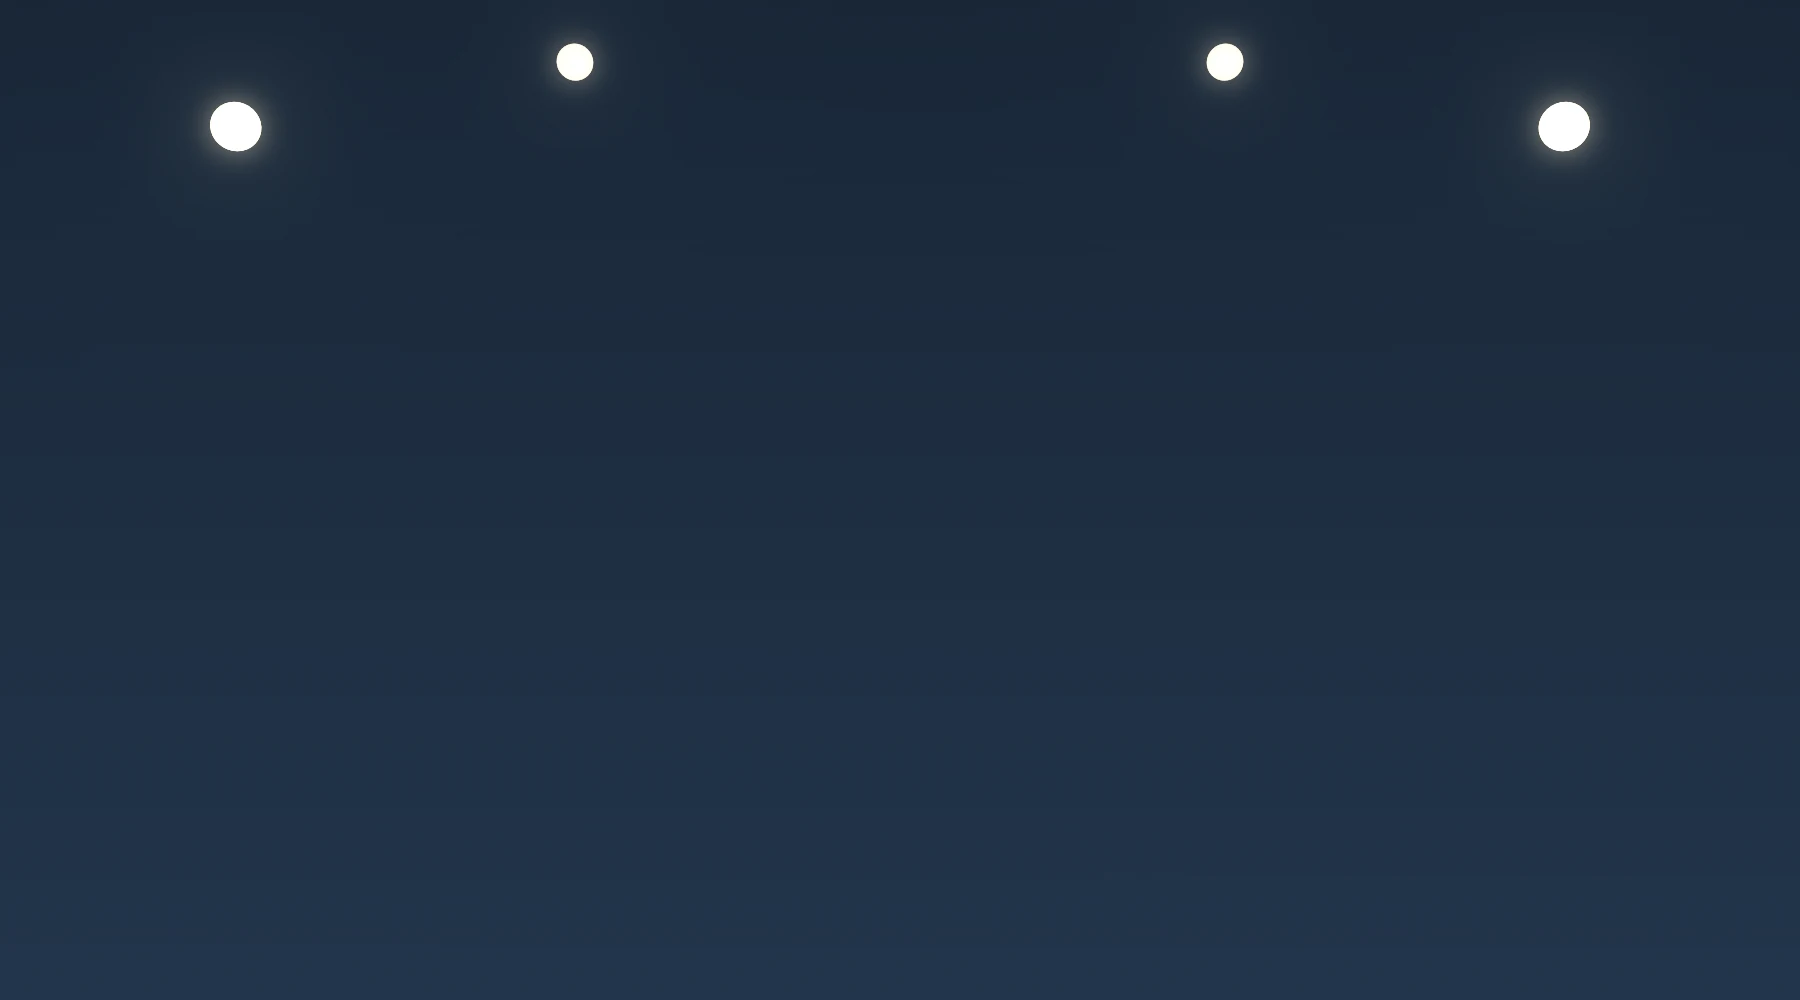
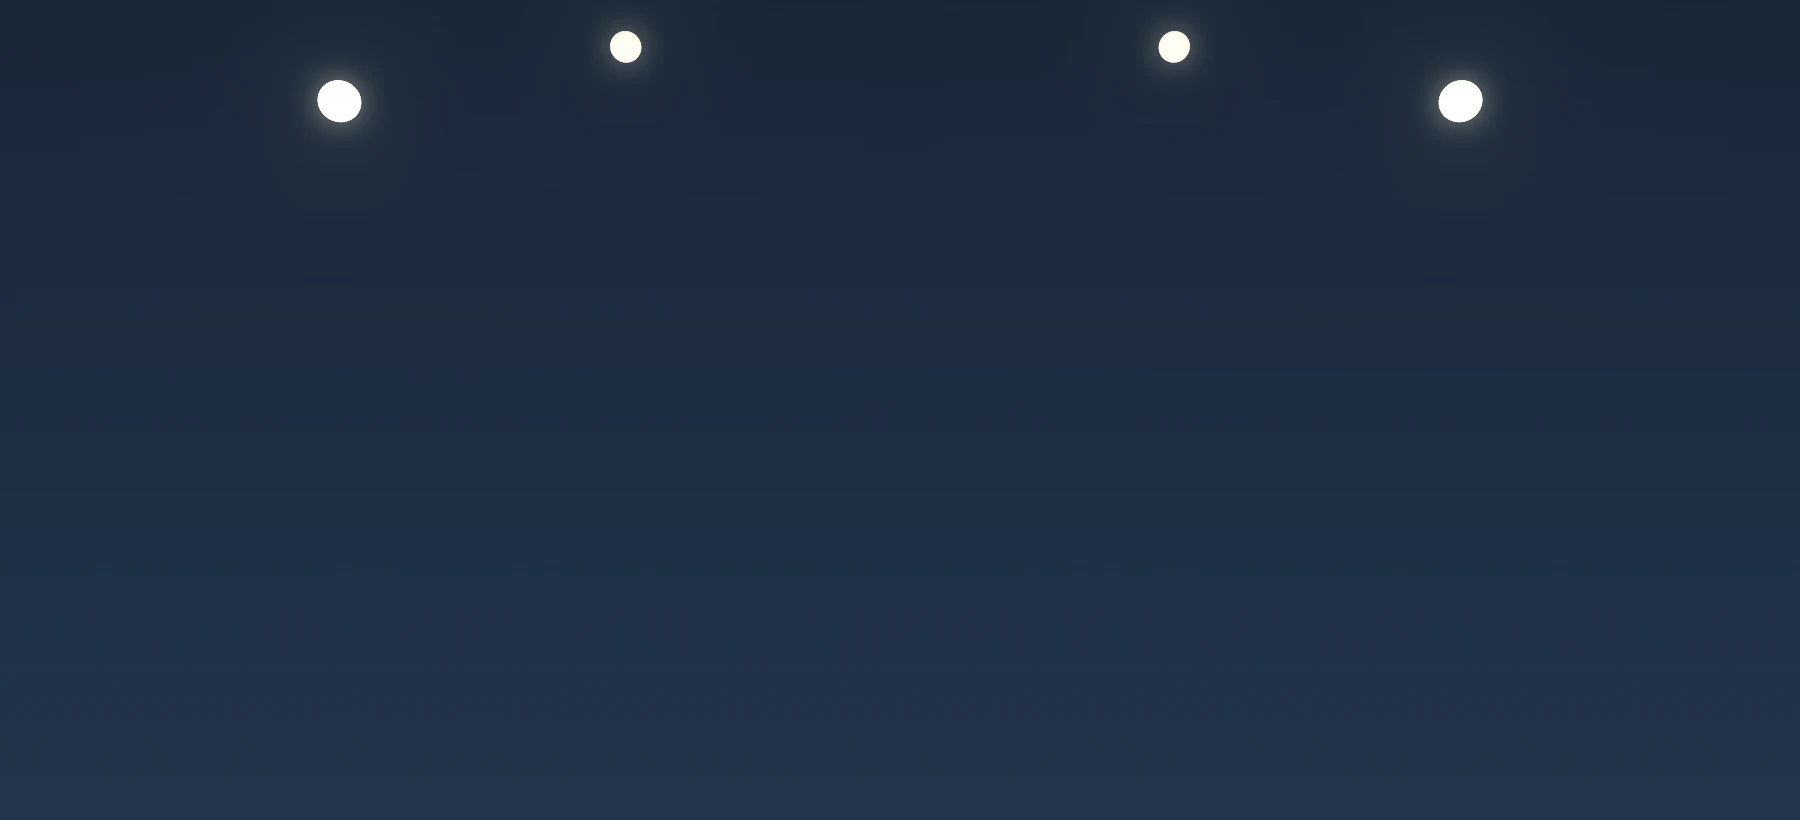
MEMBER: ステージの「寂しさ」を直す（Codex と方向を詰めたうえで）
Codex の診断: 寂しさの正体は空白量ではなく、主役を支える文脈が無いこと。
加えてステージと氏名帯が分離していて、視線が選手→名前→一覧とつながらない。
装飾で埋めるのは禁じ手（粒子・意味のない数字・広い面の金）。

その診断に沿って、足すより先に削る／変える方針で:

1. 紺一色の空を減らす。カメラを低く近くし、フレームも 1000 → 820 に。
2. ピッチの文脈を本物の線で入れる。センターサークルとセンタースポットを
   引き、選手はスポットの上に立つ。飾りではなくサッカーの言語。
3. 金の縁は全周を光らせるのをやめ、照明の当たる側だけ返るようにした
   （発光 2.2 → 0.55）。
4. 氏名帯をステージの外から中へ移し、中継の下部テロップにした。
   生年月日も入れて、視線が選手→名前→一覧と一続きになるようにした。
5. 選手の右側に金のリムライト、足元に落ち影を足して、写真を場に馴染ませた。

文字が芝に乗るのでコントラストを実測したところ 2.66〜3.41 でAAを割った。
テロップに下地（紺の板＋金の罫）を敷いて 6.54〜9.63 に。
狭い画面ではテロップを舞台の下に戻す。舞台は overflow:hidden なので
入れ物を .stage__frame に分けて、切られないようにした。

写真が無い選手のエンブレム表示でも同じ画面が成立することを確認済み。

Claude-Session: https://claude.ai/code/session_01GxWRvPVGrP95bEtFfkLXS7

diff --git a/assets/css/style.css b/assets/css/style.css
@@ -736,7 +736,10 @@ button.btn{color:inherit;font:inherit}
 
 /* ---------- 選手ステージ ---------- */
 .stage{background:var(--navy-deep);padding:clamp(2.4rem,5vw,4rem) clamp(1.4rem,5vw,4rem) 0}
-.stage__scene{position:relative;max-width:900px;margin:0 auto;aspect-ratio:1800/1000;
+/* 舞台とテロップの入れ物。舞台は overflow:hidden なので、
+   テロップは外側に置いて、広い画面だけ上に重ねる */
+.stage__frame{position:relative;max-width:900px;margin:0 auto}
+.stage__scene{position:relative;width:100%;aspect-ratio:1800/820;
   border-radius:10px;overflow:hidden;isolation:isolate}
 .stage__layer{position:absolute;inset:0;width:100%;height:100%;object-fit:cover;
   will-change:transform}
@@ -745,14 +748,15 @@ button.btn{color:inherit;font:inherit}
   background:radial-gradient(60% 46% at 50% 74%,rgba(255,238,200,.16),transparent 70%)}
 /* 立ち位置は楕円の中心（レンダで実測して 78.6%）。
    背丈は実寸より少し大きめにして、主役として見えるようにする */
-.stage__figure{position:absolute;left:50%;bottom:21.4%;height:64%;
+.stage__figure{position:absolute;left:50%;bottom:21.3%;height:66%;
   margin:0;display:flex;flex-direction:column;align-items:center;justify-content:flex-end;
   transform:translate(calc(-50% + var(--px,0px)),0);will-change:transform,opacity}
 .stage__figure::after{content:"";position:absolute;bottom:-4%;left:50%;
   width:150%;height:13%;transform:translateX(-50%);
   background:radial-gradient(50% 50% at 50% 50%,rgba(0,0,0,.55),transparent 72%)}
 .stage__photo{height:100%;width:auto;object-fit:contain;object-position:bottom;
-  filter:drop-shadow(0 0 18px rgba(0,0,0,.55))}
+  filter:drop-shadow(2px -1px 0 rgba(230,193,92,.42))
+         drop-shadow(0 0 22px rgba(var(--navy-deep-rgb),.75))}
 .stage__crest{height:46%;width:auto;opacity:.45}
 /* 胸から上の写真は、切れ目をぼかして光の中から現れるように見せる */
 .stage__figure.is-bust{height:50%}
@@ -772,18 +776,29 @@ button.btn{color:inherit;font:inherit}
   from{opacity:0;transform:translate(calc(-50% + var(--px,0px)),14px) scale(.965)}
   to{opacity:1;transform:translate(calc(-50% + var(--px,0px)),0) scale(1)}}
 .stage__figure.is-in{animation:stage-in .55s var(--ease) both}
-/* 名前の帯 */
-.stage__plate{max-width:900px;margin:1.4rem auto 0;text-align:center;
-  border-top:1px solid var(--line);padding-top:1.3rem}
-.stage__pos{display:flex;justify-content:center;gap:.35rem;margin:0 0 .7rem;min-height:1.2em}
+/* 文字が芝に乗るので、左下だけ落とす */
+.stage__scrim{position:absolute;inset:0;pointer-events:none;
+  background:linear-gradient(0deg,rgba(var(--navy-deep-rgb),.42),transparent 38%)}
+/* 名前は舞台の外に置かず、中継のテロップのように芝の上に重ねる */
+.stage__plate{position:absolute;left:clamp(1.2rem,3.2vw,2.6rem);bottom:clamp(1.1rem,3vw,2.2rem);
+  max-width:46%;text-align:left;
+  padding:1.05rem 1.9rem 1.05rem 1.15rem;border-left:2px solid var(--gold);
+  background:linear-gradient(90deg,rgba(var(--navy-deep-rgb),.93),rgba(var(--navy-deep-rgb),.74) 78%,
+    rgba(var(--navy-deep-rgb),.66));
+  -webkit-backdrop-filter:blur(3px);backdrop-filter:blur(3px)}
+.stage__pos{display:flex;gap:.35rem;margin:0 0 .7rem;min-height:1.2em}
 .stage__pos span{font-family:var(--font-en);font-size:.68rem;font-weight:600;
   letter-spacing:.14em;color:var(--gold);line-height:1;
   border:1px solid rgba(230,193,92,.45);border-radius:3px;padding:.35em .6em}
 .stage__pos b{font-family:var(--font-ja);font-size:.66rem;font-weight:700;letter-spacing:.1em;
   background:var(--gold);color:var(--navy-deep);border-radius:3px;padding:.45em .7em;line-height:1}
-.stage__name{font-size:clamp(1.6rem,4vw,2.4rem);font-weight:900;letter-spacing:.08em;
-  color:#fff;margin:0;line-height:1.3}
-.stage__kana{font-size:.76rem;letter-spacing:.2em;color:var(--grey);margin:.5rem 0 0}
+.stage__name{font-size:clamp(1.5rem,3.4vw,2.3rem);font-weight:900;letter-spacing:.08em;
+  color:#fff;margin:0;line-height:1.25;text-shadow:0 2px 14px rgba(var(--navy-deep-rgb),.8)}
+.stage__kana{font-size:.76rem;letter-spacing:.2em;color:#cbd3e2;margin:.45rem 0 0}
+.stage__dob{font-family:var(--font-en);font-size:.74rem;letter-spacing:.08em;color:#b4bdd0;
+  margin:.9rem 0 0;padding-top:.7rem;border-top:1px solid rgba(230,193,92,.35);
+  display:inline-flex;align-items:baseline;gap:.6rem}
+.stage__dob span{font-size:.62rem;letter-spacing:.18em}
 .stage__hint{text-align:center;font-size:.76rem;color:var(--grey);margin:1.6rem 0 0}
 /* カードは押せる */
 .mcard{cursor:pointer}
@@ -793,6 +808,12 @@ button.btn{color:inherit;font:inherit}
   .stage{padding-top:1.8rem}
   /* 横長のままだと舞台が低すぎる。左右を切って縦を稼ぐ（立ち位置は縦基準なのでずれない） */
   .stage__scene{border-radius:6px;aspect-ratio:5/4}
+  .stage__scrim{background:linear-gradient(0deg,rgba(var(--navy-deep-rgb),.55),transparent 42%)}
+  .stage__plate{position:static;max-width:none;text-align:center;background:none;
+    -webkit-backdrop-filter:none;backdrop-filter:none;border-left:0;
+    margin:1.2rem auto 0;padding:1.1rem 0 0;border-top:1px solid var(--line)}
+  .stage__pos{justify-content:center}
+  .stage__dob{margin-top:.8rem}
   .stage__soon{font-size:.56rem}
   .stage__hint{font-size:.72rem}
 }

diff --git a/member.html b/member.html
@@ -13,7 +13,7 @@
 <link rel="preconnect" href="https://fonts.googleapis.com" />
 <link rel="preconnect" href="https://fonts.gstatic.com" crossorigin />
 <link href="https://fonts.googleapis.com/css2?family=Anton&family=Oswald:wght@400;500;600;700&family=Noto+Sans+JP:wght@400;500;700;900&display=swap" rel="stylesheet" />
-<link rel="stylesheet" href="assets/css/style.css?v=5768a919" />
+<link rel="stylesheet" href="assets/css/style.css?v=dbb45d3d" />
 </head>
 <body>
 
@@ -59,6 +59,7 @@
      選手を選ぶとステージに登場する。写真は assets/img/member/<data-photo>.webp
      まだ無いあいだはエンブレムを出しておく。 -->
 <section class="stage" id="stage" aria-label="選手ステージ">
+  <div class="stage__frame">
   <div class="stage__scene" id="stageScene">
     <img class="stage__layer stage__layer--back" src="assets/img/stage-back.webp" alt="" aria-hidden="true" />
     <img class="stage__layer stage__layer--front" src="assets/img/stage-front.webp" alt="" aria-hidden="true" />
@@ -68,11 +69,14 @@
       <img class="stage__crest" src="assets/img/logo.webp" alt="" aria-hidden="true" />
       <figcaption class="stage__soon">PHOTO COMING SOON</figcaption>
     </figure>
+    <div class="stage__scrim" aria-hidden="true"></div>
   </div>
   <div class="stage__plate" id="stagePlate" role="status" aria-live="polite">
     <p class="stage__pos"></p>
     <p class="stage__name"></p>
     <p class="stage__kana"></p>
+    <p class="stage__dob"></p>
+  </div>
   </div>
   <p class="stage__hint">下のカードを選ぶと、その選手がステージに立ちます。</p>
 </section>
@@ -301,6 +305,6 @@
 <a href="#top" class="totop" id="totop" data-scroll aria-label="ページトップへ">↑</a>
 
 <script src="assets/js/lenis.min.js"></script>
-<script src="assets/js/main.js?v=ef5e01dc"></script>
+<script src="assets/js/main.js?v=18ab4360"></script>
 </body>
 </html>

diff --git a/assets/js/main.js b/assets/js/main.js
@@ -460,6 +460,7 @@
     const elPos = plate.querySelector(".stage__pos");
     const elNm  = plate.querySelector(".stage__name");
     const elKn  = plate.querySelector(".stage__kana");
+    const elDb  = plate.querySelector(".stage__dob");
     const cards = Array.from(grid.querySelectorAll(".mcard"));
     const soft  = !window.matchMedia("(prefers-reduced-motion: reduce)").matches;
 
@@ -472,6 +473,8 @@
         card.dataset.pos.split(" ").map((p) => `<span>${p}</span>`).join("");
       elNm.textContent = card.querySelector(".mcard__name").textContent;
       elKn.textContent = card.querySelector(".mcard__kana").textContent;
+      if (elDb) elDb.innerHTML =
+        '<span>BORN</span>' + card.querySelector(".mcard__dob").lastChild.textContent.trim();
 
       // 写真がまだ無い選手はエンブレムのまま
       fig.classList.add("is-empty");

diff --git a/sponsor.html b/sponsor.html
@@ -13,7 +13,7 @@
 <link rel="preconnect" href="https://fonts.googleapis.com" />
 <link rel="preconnect" href="https://fonts.gstatic.com" crossorigin />
 <link href="https://fonts.googleapis.com/css2?family=Anton&family=Oswald:wght@400;500;600;700&family=Noto+Sans+JP:wght@400;500;700;900&display=swap" rel="stylesheet" />
-<link rel="stylesheet" href="assets/css/style.css?v=5768a919" />
+<link rel="stylesheet" href="assets/css/style.css?v=dbb45d3d" />
   <script type="module" src="assets/vendor/model-viewer-4.3.1.min.js"></script>
 </head>
 <body>
@@ -184,6 +184,6 @@
 <a href="#top" class="totop" id="totop" data-scroll aria-label="ページトップへ">↑</a>
 
 <script src="assets/js/lenis.min.js"></script>
-<script src="assets/js/main.js?v=ef5e01dc"></script>
+<script src="assets/js/main.js?v=18ab4360"></script>
 </body>
 </html>

diff --git a/index.html b/index.html
@@ -13,7 +13,7 @@
 <link rel="preconnect" href="https://fonts.googleapis.com" />
 <link rel="preconnect" href="https://fonts.gstatic.com" crossorigin />
 <link href="https://fonts.googleapis.com/css2?family=Anton&family=Oswald:wght@400;500;600;700&family=Noto+Sans+JP:wght@400;500;700;900&display=swap" rel="stylesheet" />
-<link rel="stylesheet" href="assets/css/style.css?v=5768a919" />
+<link rel="stylesheet" href="assets/css/style.css?v=dbb45d3d" />
 </head>
 <body>
 
@@ -302,6 +302,6 @@
 <a href="#top" class="totop" id="totop" data-scroll aria-label="ページトップへ">↑</a>
 
 <script src="assets/js/lenis.min.js"></script>
-<script src="assets/js/main.js?v=ef5e01dc"></script>
+<script src="assets/js/main.js?v=18ab4360"></script>
 </body>
 </html>

diff --git a/recruit.html b/recruit.html
@@ -13,7 +13,7 @@
 <link rel="preconnect" href="https://fonts.googleapis.com" />
 <link rel="preconnect" href="https://fonts.gstatic.com" crossorigin />
 <link href="https://fonts.googleapis.com/css2?family=Anton&family=Oswald:wght@400;500;600;700&family=Noto+Sans+JP:wght@400;500;700;900&display=swap" rel="stylesheet" />
-<link rel="stylesheet" href="assets/css/style.css?v=5768a919" />
+<link rel="stylesheet" href="assets/css/style.css?v=dbb45d3d" />
 </head>
 <body>
 
@@ -211,6 +211,6 @@
 <a href="#top" class="totop" id="totop" data-scroll aria-label="ページトップへ">↑</a>
 
 <script src="assets/js/lenis.min.js"></script>
-<script src="assets/js/main.js?v=ef5e01dc"></script>
+<script src="assets/js/main.js?v=18ab4360"></script>
 </body>
 </html>

diff --git a/schedule.html b/schedule.html
@@ -13,7 +13,7 @@
 <link rel="preconnect" href="https://fonts.googleapis.com" />
 <link rel="preconnect" href="https://fonts.gstatic.com" crossorigin />
 <link href="https://fonts.googleapis.com/css2?family=Anton&family=Oswald:wght@400;500;600;700&family=Noto+Sans+JP:wght@400;500;700;900&display=swap" rel="stylesheet" />
-<link rel="stylesheet" href="assets/css/style.css?v=5768a919" />
+<link rel="stylesheet" href="assets/css/style.css?v=dbb45d3d" />
 </head>
 <body>
 
@@ -183,6 +183,6 @@
 <a href="#top" class="totop" id="totop" data-scroll aria-label="ページトップへ">↑</a>
 
 <script src="assets/js/lenis.min.js"></script>
-<script src="assets/js/main.js?v=ef5e01dc"></script>
+<script src="assets/js/main.js?v=18ab4360"></script>
 </body>
 </html>
